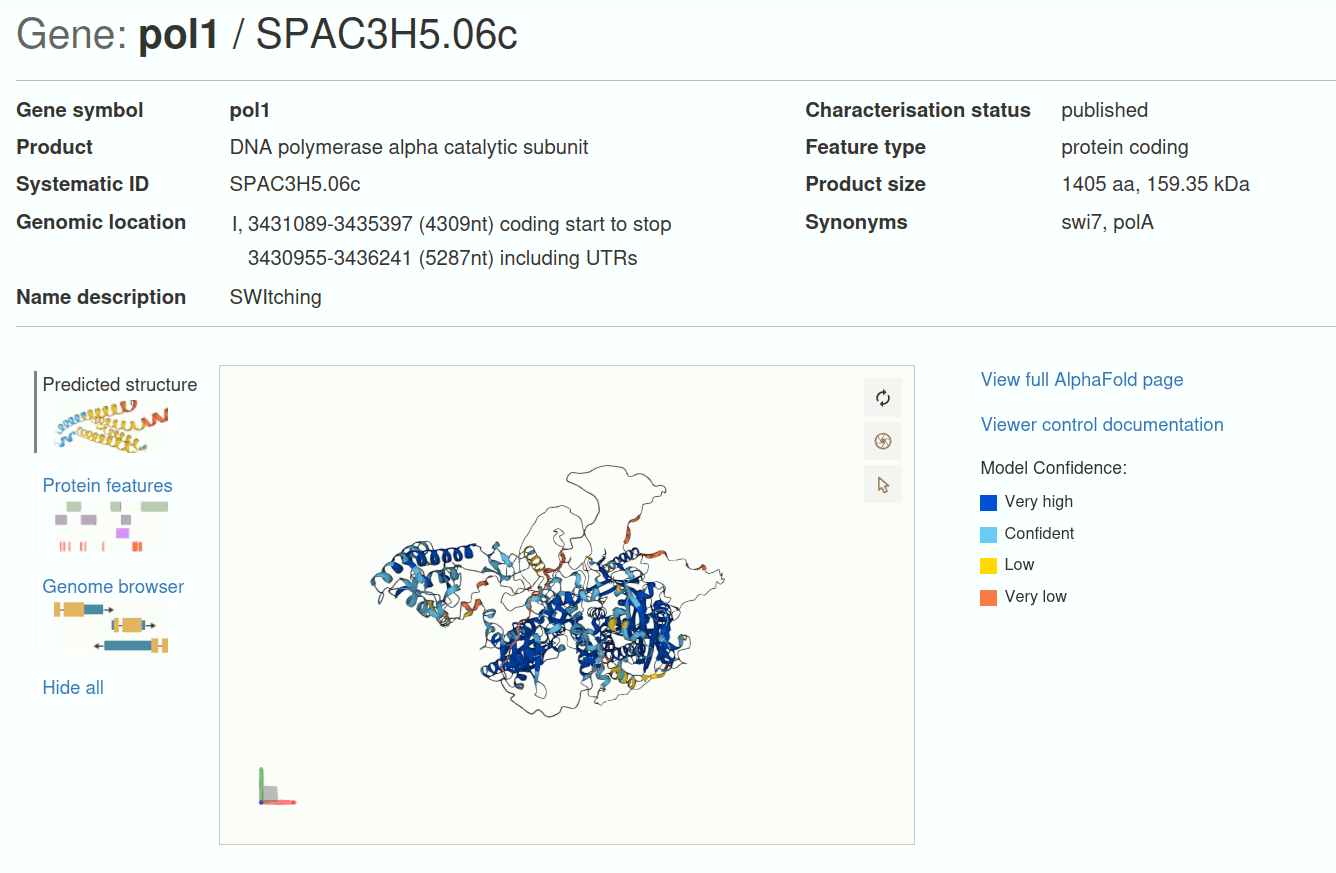
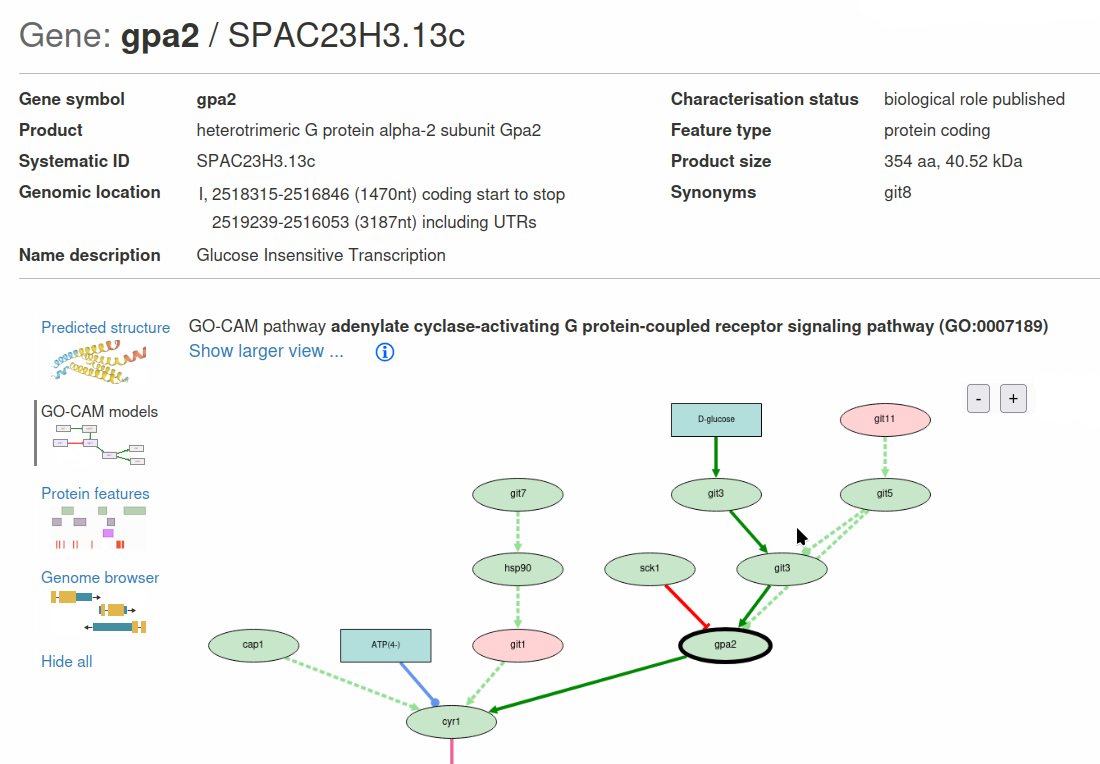
Add GO-CAMs to Getting Started page
Also rearrange a bit and add a few headings.

Refs pombase/website#2486

diff --git a/src/docs/documentation/getting-started.md b/src/docs/documentation/getting-started.md
@@ -29,6 +29,8 @@ If you use Pombase for your research, please cite or acknowledge the resource in
 
 ## Types of pages in ${database_name}
 
+### Gene pages
+
 ${database_name} is centred around **Gene Pages** so this is a good
 place to begin to familiarise yourself with how data is organised.  An
 example is the gene page for
@@ -48,15 +50,6 @@ identifier
 %%if db=JaponicusDB
 ("SJAG_05239").
 %%end db=JaponicusDB
-
-At the top of the page, you will find some basic information about the
-locus and gene product.  Immediately below is a view of the
-[predicted structure from AlphaFold](https://alphafold.ebi.ac.uk/entry/P28040).
-Other views are possible using the buttons beside the structure view
-("Protein features", "Genome browser", etc.)
-
-![Top of gene page](assets/gene_page_top_part.png){ .screenshot width="700"}
-
 <details>
 <summary>
 Read more about the names of genes…
@@ -81,7 +74,20 @@ name in publications where possible.</li>
 </ul>
 </details>
 
-On the left side of the **Gene Page**, there is a menu listing the sections in the page (GO molecular function, GO biological process, etc.). Each section contains different kinds of annotations. Go through them and click on the <img src="/assets/info_icon.svg" style="width: 1em"/> button to see what information is displayed in each section. Most sections show a “summary view” of the experimentally relevant information so that it is easier to consume the biological context. The “Show details” link uncollapses the section to show important associated information such as evidence and provenance, often presenting multiple sources supporting the same annotation. You also will notice that many of the displayed annotations are blue and link to other types of pages:
+At the top of the page, you will find some basic information about the
+locus and gene product.  Immediately below are a selection of widgets
+displaying structures, pathways (GO-CAM), protein features and the
+genome context.
+
+![Top of gene page](assets/gene_page_top_part.png){ .screenshot width="900"}
+
+On the left side of the **Gene Page**, there is a menu listing the sections in the page (GO molecular function, GO biological process, etc.). Each section contains different kinds of annotations. Go through them and click on the <img src="/assets/info_icon.svg" style="width: 1em"/> button to see what information is displayed in each section. Most sections show a “summary view” of the experimentally relevant information so that it is easier to consume the biological context. The “Show details” link uncollapses the section to show important associated information such as evidence and provenance, often presenting multiple sources supporting the same annotation. 
+
+See the [gene page documentation] for more information](/documentation/gene-page-basic-information).
+
+### Other ${database_name} pages
+
+You also will notice that many of the displayed annotations are blue and link to other types of pages:
 
 - **GO term pages**: contain the **definition** of the GO term and lists all the **genes annotated to a specific GO term** and its “child” terms.
     <details>
@@ -188,6 +194,17 @@ On the left side of the **Gene Page**, there is a menu listing the sections in t
 - **Genotype pages:** contain all the **phenotypes associated with a genotype** as well as the alleles that constitute that genotype. Example: [mal3delta](https://www.pombase.org/genotype/mal3delta).
 
 - **Other ontology term pages**. [Read more](https://www.pombase.org/documentation/ontology-term-page)
+
+## GO-CAM pathways
+
+GO-CAMs (Gene Ontology Causal Activity Models) are a framework
+developed by the Gene Ontology (GO) project to represent complex
+biological pathways in a structured, computable format. They model how
+molecular activities, enabled by gene products or complexes, are
+causally linked to form larger biological processes.
+
+Visit the [GO-CAM pathway list](/gocam/model-list) or the
+[main PomBase GO-CAM page](/gocam) for more information.
 
 ## Advanced search / query builder
 